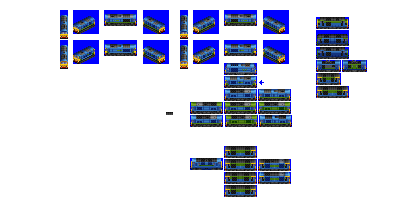
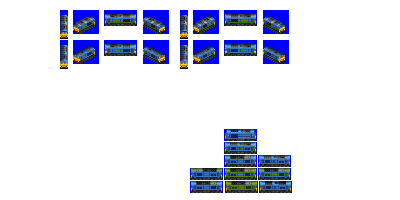
Change: sprites complete for adjusted Endeavour liveries

diff --git a/src/vehicles/endeavour.py b/src/vehicles/endeavour.py
@@ -15,7 +15,7 @@ def main(roster_id):
                             intro_date_offset=-2,  # let's be a little bit earlier for this one
                             gen=6,
                             alternative_cc_livery='FREIGHTLINER_GBRF',
-                            sprites_complete=False)
+                            sprites_complete=True)
 
     consist.add_unit(type=DieselEngineUnit,
                      weight=125,
